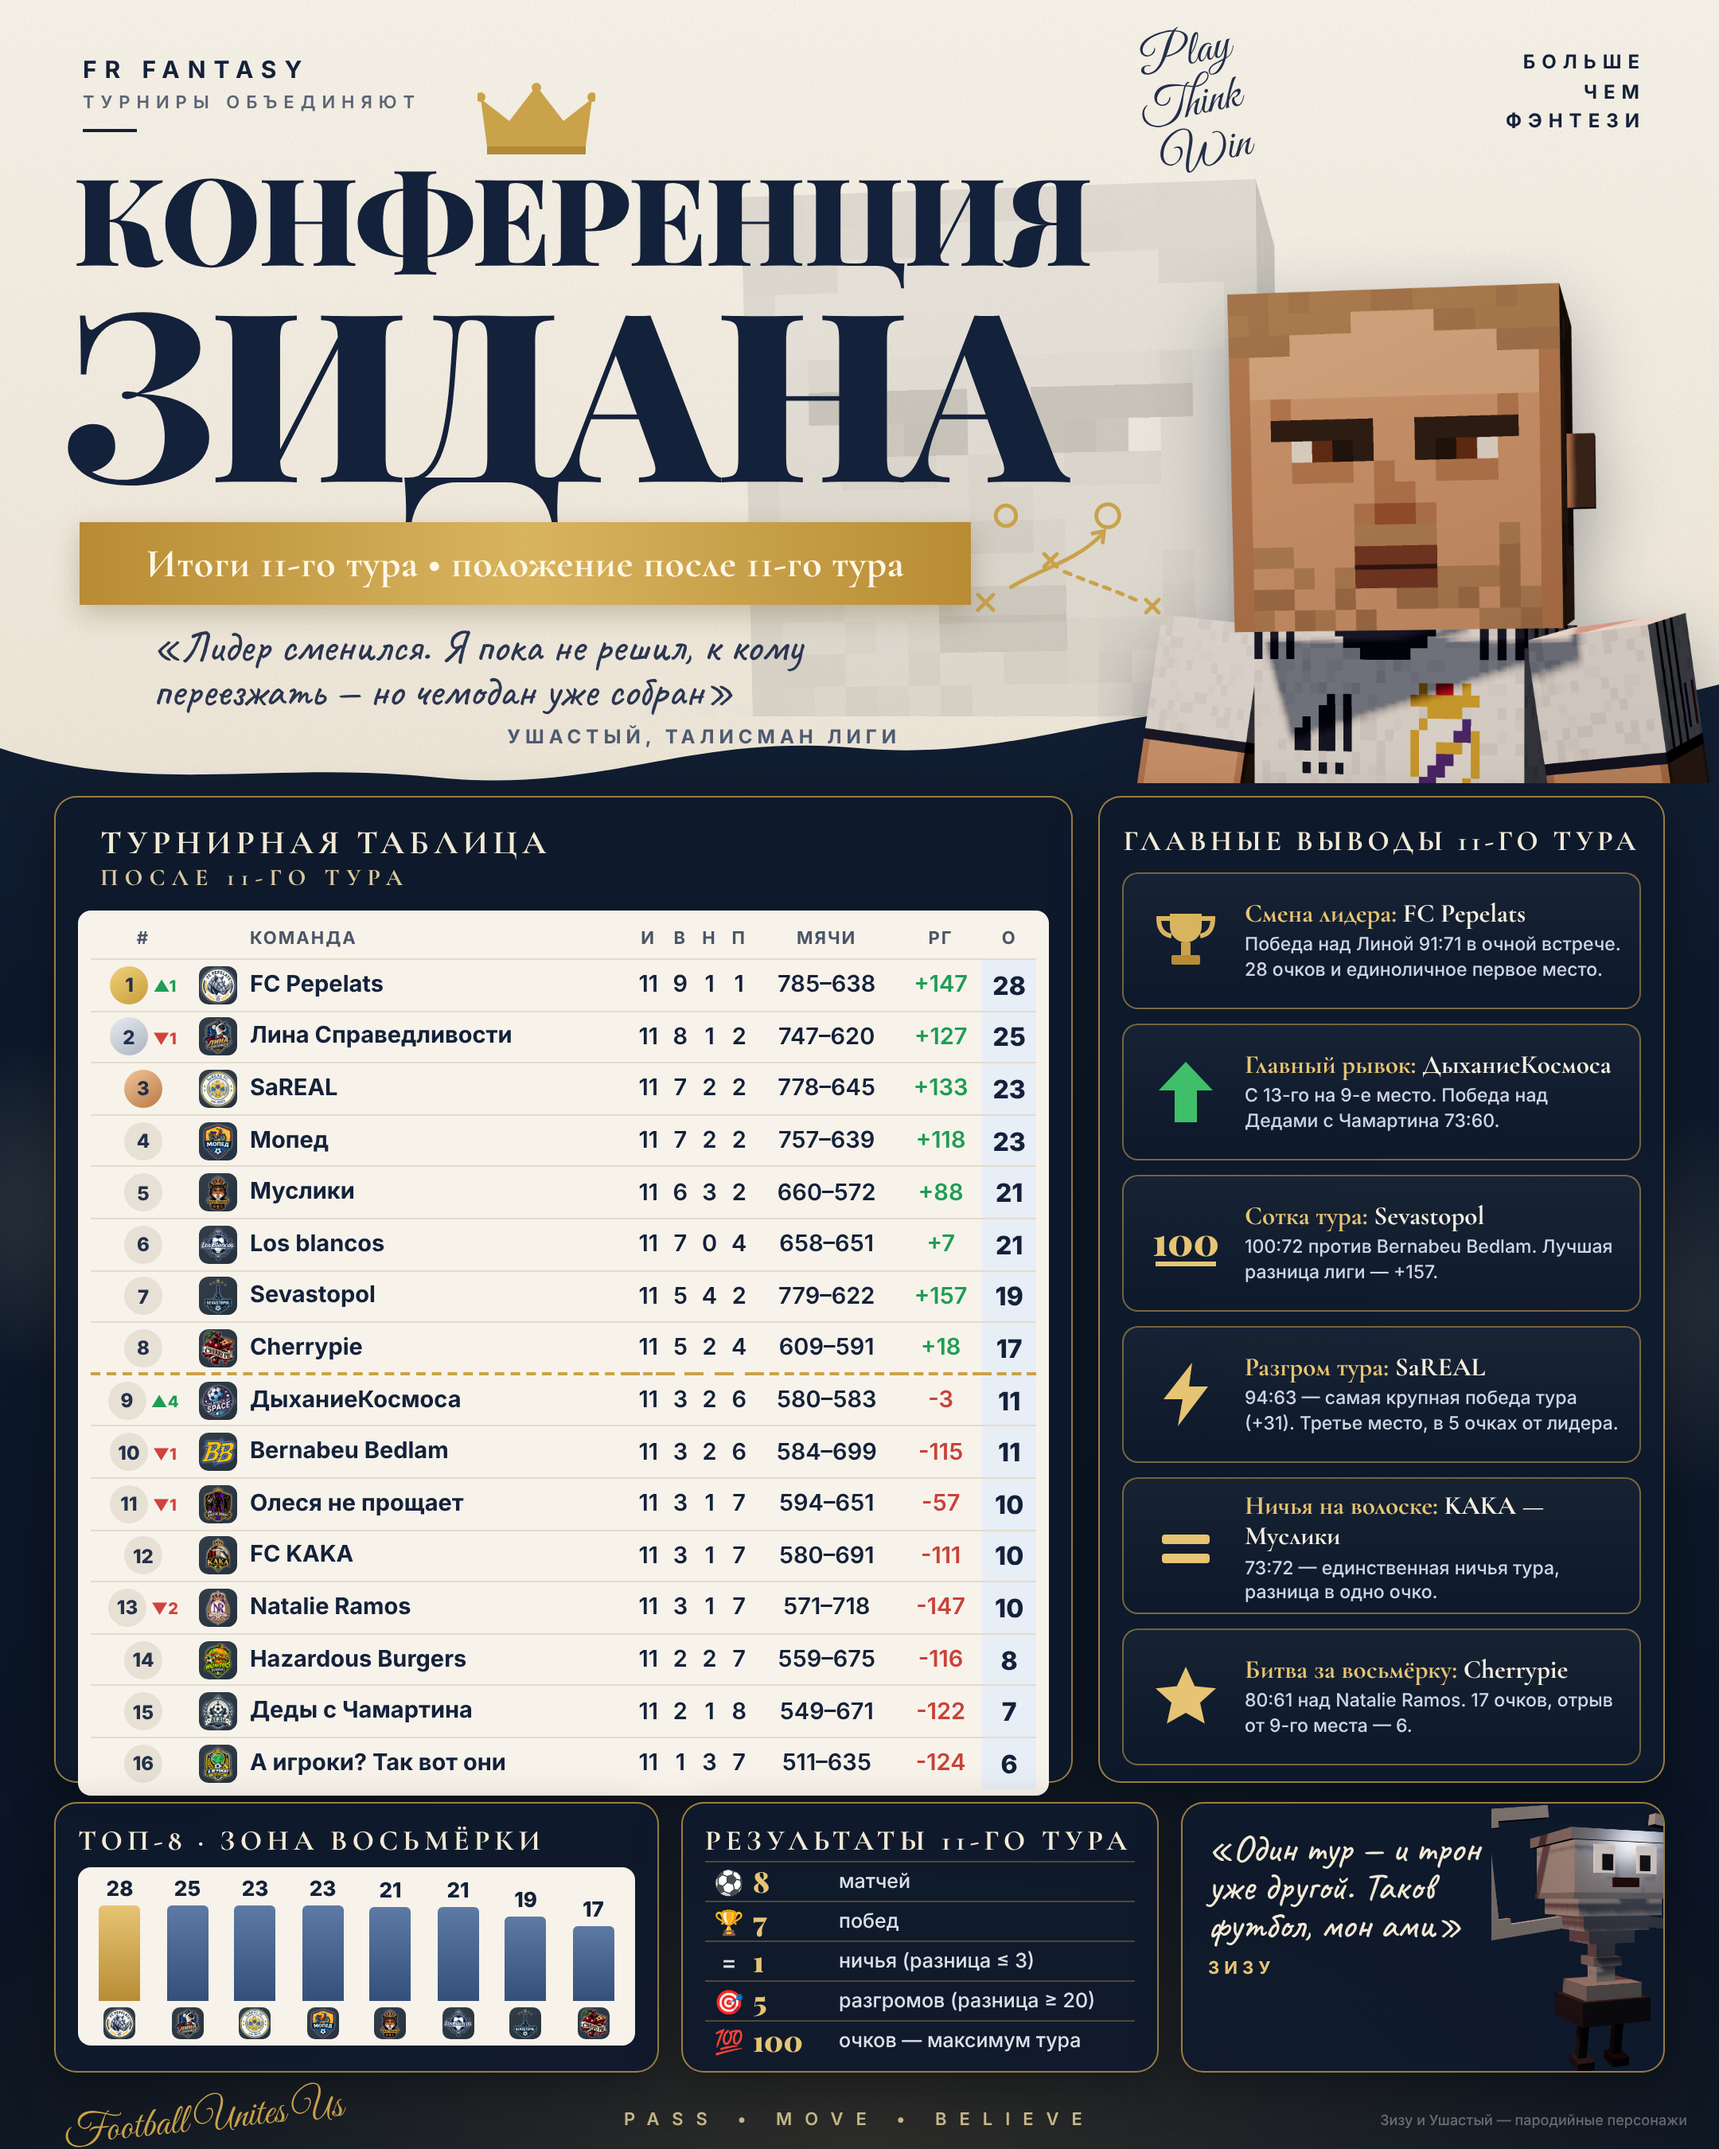
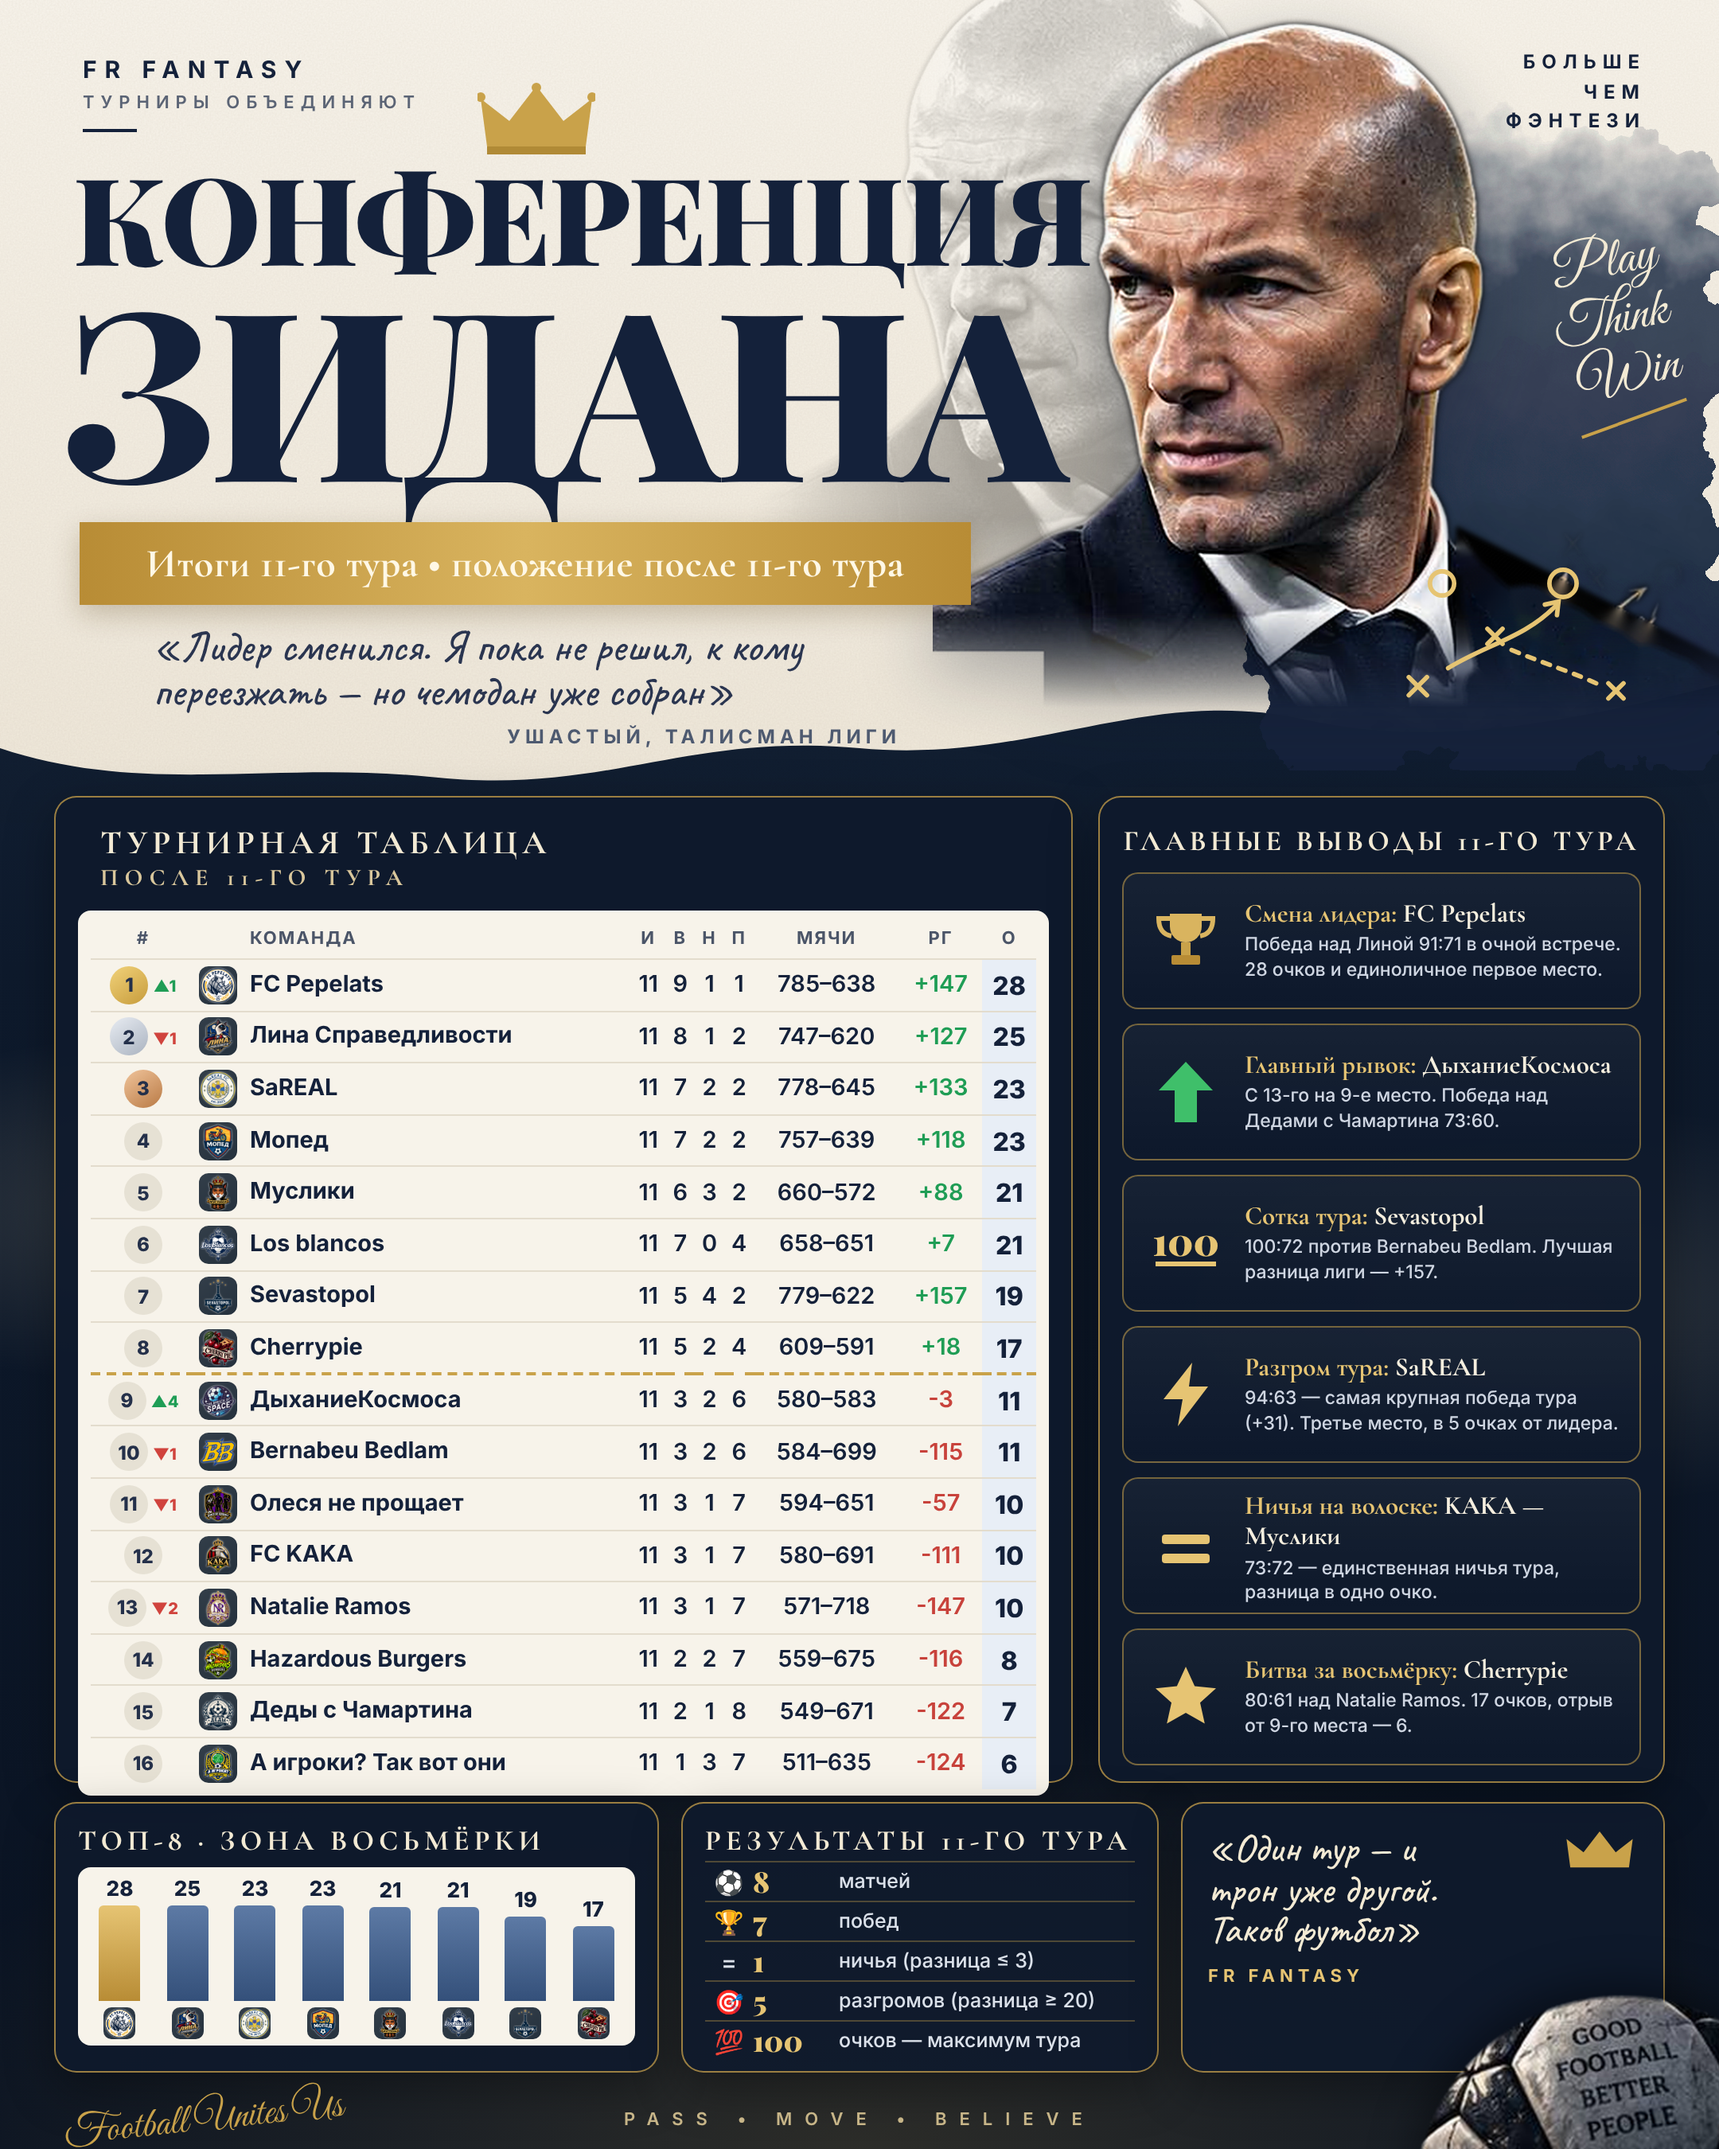
Poster: realistic portrait and ball from the league's previous poster, closer styling
Claude-Session: https://claude.ai/code/session_01FW7Dr3BqNT6o2D4kSjfDSF

Changed region(s): [[0.4653, 0.0, 1.0, 0.3733], [0.8065, 0.84, 1.0, 1.0], [0.7134, 0.84, 0.8375, 0.9333]]

diff --git a/zidane_video/poster11/poster.html b/zidane_video/poster11/poster.html
@@ -35,10 +35,12 @@ body{position:relative;font-family:Inter,sans-serif;color:var(--ink);background:
 .ribbon:after{right:-18px;clip-path:polygon(0 0,100% 0,60% 50%,100% 100%,0 100%)}
 .quote1{position:absolute;left:96px;top:392px;width:470px;font:500 27px/1.05 Caveat;color:#2a3550}
 .quote1 b{display:block;font:700 12px Inter;letter-spacing:3px;color:#4e5a70;text-align:right;margin-top:6px}
-#ghost{position:absolute;right:120px;top:-70px;width:620px;clip-path:inset(0 0 calc(100% - 520px) 0);filter:grayscale(1) contrast(.85) brightness(1.15);opacity:.2}
-#hero{position:absolute;right:-10px;top:60px;width:400px;clip-path:inset(0 0 calc(100% - 432px) 0);filter:drop-shadow(0 18px 24px rgba(10,20,40,.35))}
-.ptw{position:absolute;right:300px;top:20px;font-size:30px!important;font:400 38px/1.05 Vibes;color:#24304a;transform:rotate(-12deg);text-align:right}
-#tactic{position:absolute;left:600px;top:300px;transform:scale(.8);transform-origin:left top}
+#ghost{position:absolute;left:470px;top:-30px;width:470px;clip-path:inset(0 0 calc(100% - 470px) 0);filter:grayscale(1) contrast(1.1) brightness(1.05);opacity:.3;-webkit-mask:linear-gradient(90deg,transparent,#000 30%,#000 60%,transparent)}
+#splash{position:absolute;right:0;top:64px}
+#hero{position:absolute;right:-6px;top:6px;width:500px;filter:drop-shadow(0 16px 22px rgba(10,20,40,.35))}
+.ptw{position:absolute;right:30px;top:150px;font:400 34px/1.05 Vibes;color:#f3ead4;transform:rotate(-12deg);text-align:right}
+.ptw:after{content:'';display:block;width:70px;height:2px;background:#c9a24a;margin:8px 0 0 auto;transform:rotate(-8deg)}
+#tactic{position:absolute;left:868px;top:338px;transform:scale(.95);transform-origin:left top}
 /* panels */
 .panel{position:absolute;border:1.5px solid rgba(201,162,74,.75);border-radius:14px;background:rgba(14,26,44,.9);box-shadow:0 10px 30px rgba(0,0,0,.35)}
 .ph{font:700 21px Corm;letter-spacing:3px;color:#f3ead4;text-transform:uppercase}
@@ -71,9 +73,9 @@ tr.cut td{border-top:2px dashed var(--gold)}
 .st{display:grid;grid-template-columns:30px 54px 1fr;align-items:center;height:23px;border-top:1px solid rgba(201,162,74,.35);margin-top:2px}
 .st b{font:800 18px Playfair;color:var(--gold2)}.st span{font:500 12.5px Inter;color:#dbe1ea}
 #qbox{left:742px;top:1132px;width:304px;height:170px;padding:16px 16px;overflow:hidden}
-#qbox .q{font:500 24px/1.0 Caveat;color:#f3ead4;width:178px}
+#qbox .q{font:500 25px/1.02 Caveat;color:#f3ead4;width:170px}
 #qbox .q b{display:block;font:700 11px Inter;letter-spacing:3px;color:var(--gold2);margin-top:8px}
-#mascot{position:absolute;right:-30px;bottom:-26px;width:138px}
+#ball{position:absolute;right:-34px;bottom:-44px;width:250px;filter:drop-shadow(0 -6px 14px rgba(0,0,0,.5))}
 .foot{position:absolute;left:0;right:0;bottom:12px;text-align:center;font:600 11px Inter;letter-spacing:8px;color:#c7b588}
 .unites{position:absolute;left:40px;bottom:2px;font:400 26px Vibes;color:var(--gold);transform:rotate(-6deg)}
 .disc{position:absolute;right:20px;bottom:12px;font:500 9px Inter;color:rgba(255,255,255,.35)}
@@ -82,9 +84,13 @@ tr.cut td{border-top:2px dashed var(--gold)}
 <div id="paper"></div>
 <svg id="grain" width="1080" height="520"><filter id="n"><feTurbulence type="fractalNoise" baseFrequency=".9" numOctaves="2" seed="4"/><feColorMatrix values="0 0 0 0 .55  0 0 0 0 .5  0 0 0 0 .42  0 0 0 .5 0"/></filter><rect width="1080" height="470" filter="url(#n)"/></svg>
 
-<img id="ghost" src="img/zizu.png"><img id="hero" src="img/zizu.png">
+<img id="ghost" src="img/zidane_photo.png">
+<svg id="splash" width="330" height="420" viewBox="0 0 330 420"><defs><filter id="ink"><feTurbulence type="fractalNoise" baseFrequency=".035" numOctaves="4" seed="7"/><feDisplacementMap in="SourceGraphic" scale="55"/></filter>
+ <linearGradient id="ig" x1="0" y1="0" x2="0" y2="1"><stop offset="0" stop-color="#22324d" stop-opacity=".0"/><stop offset=".25" stop-color="#1f2e47" stop-opacity=".85"/><stop offset="1" stop-color="#14213a"/></linearGradient></defs>
+ <path filter="url(#ink)" fill="url(#ig)" d="M120 10 C200 0 300 20 330 40 L330 420 L60 420 C40 360 10 300 30 230 C50 160 20 90 120 10Z"/></svg>
+<img id="hero" src="img/zidane_photo.png">
 <div class="ptw">Play<br>&nbsp;&nbsp;Think<br>&nbsp;&nbsp;&nbsp;&nbsp;Win</div>
-<svg id="tactic" width="200" height="120" viewBox="0 0 200 120" fill="none" stroke="#c9a24a" stroke-width="3" stroke-linecap="round">
+<svg id="tactic" width="200" height="120" viewBox="0 0 200 120" fill="none" stroke="#e6c473" stroke-width="3" stroke-linecap="round">
  <path d="M18 92 l12 12 M30 92 l-12 12 M70 60 l10 10 M80 60 l-10 10 M150 96 l10 10 M160 96 l-10 10"/><circle cx="120" cy="30" r="9"/><circle cx="40" cy="30" r="8"/>
  <path d="M44 86 C70 70 95 66 116 44" /><path d="M108 44 l9 -2 l-1 9"/><path d="M86 74 C110 84 130 90 146 98" stroke-dasharray="5 6"/></svg>
 
@@ -105,11 +111,12 @@ tr.cut td{border-top:2px dashed var(--gold)}
 
 <div class="panel" id="stats"><div class="ph" style="font-size:18px">Результаты 11-го тура</div><div id="st"></div></div>
 
-<div class="panel" id="qbox"><div class="q">«Один тур — и трон уже другой. Таков футбол, мон ами»<b>ЗИЗУ</b></div><img id="mascot" src="img/ushastyi.png"></div>
+<div class="panel" id="qbox"><div class="q">«Один тур — и трон уже другой. Таков футбол»<b>FR FANTASY</b></div><svg width="44" height="28" viewBox="0 0 74 46" style="position:absolute;right:18px;top:16px"><path d="M6 40 L2 10 L20 24 L37 2 L54 24 L72 10 L68 40 Z" fill="#c9a24a"/></svg></div>
+<img id="ball" src="img/ball.png">
 
 <div class="unites">Football Unites Us</div>
 <div class="foot">PASS • MOVE • BELIEVE</div>
-<div class="disc">Зизу и Ушастый — пародийные персонажи</div>
+
 
 <script>
 const T=[['pepelats','FC Pepelats',9,1,1,785,638,28,1],['lina','Лина Справедливости',8,1,2,747,620,25,-1],['sareal','SaREAL',7,2,2,778,645,23,0],['moped','Мопед',7,2,2,757,639,23,0],
